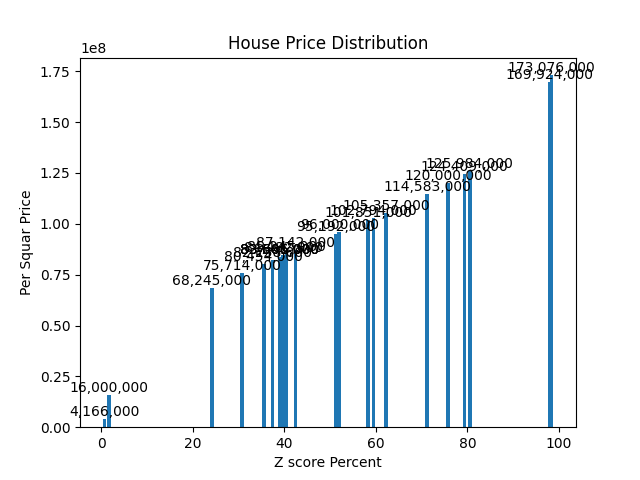
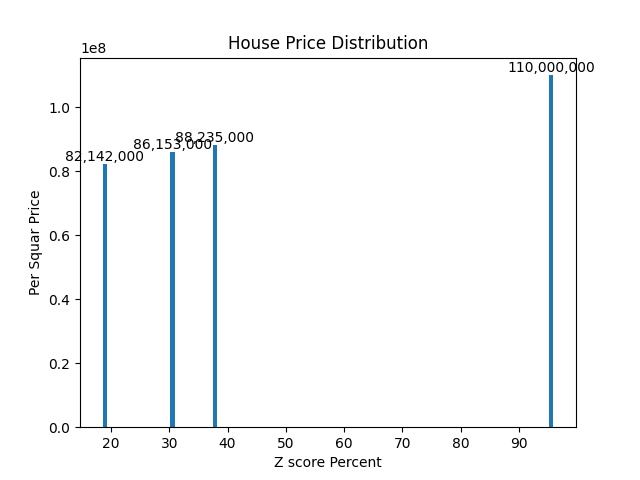
Add logger && and add logger to redis and sheduler.

diff --git a/cmd/redisClient/redisclient.go b/cmd/redisClient/redisclient.go
@@ -5,9 +5,15 @@ import (
 	"fmt"
 	"log"
 	"strconv"
+	logger "tf-idf/cmd/logger"
 	"time"
 
 	"github.com/redis/go-redis/v9"
+)
+
+const (
+	logFilePath = "../../logs/redis/"
+	logPrefix   = ".log"
 )
 
 var ctx = context.Background()
@@ -35,22 +41,25 @@ func RedisChecker() bool {
 }
 
 func RedisSetOPS(key string, value int) {
-	err := client.Set(ctx, key, value, 0)
+	status := client.Set(ctx, key, value, 0)
 
-	if err != nil {
-		log.Printf("Cannot set key %s and value %s with error: \n", key, value, err)
+	if status != nil {
+		log.Printf("Cannot set key %s and value %s with status: \n", key, value, status)
 	} else {
 		return
 	}
+	logger.Logger(logFilePath, logPrefix, fmt.Sprintf("%s", status), "debug")
 }
 
 func RedisGetOPS(key string) int {
 	startTime := time.Now()
-	value, err := client.Get(ctx, key).Result()
-	if err != nil {
-		log.Printf("Canntot Find Value Of Key: %s", key, err)
+	value, status := client.Get(ctx, key).Result()
+	if status != nil {
+		log.Printf("Canntot Find Value Of Key: %s", key, status)
+		logger.Logger(logFilePath, logPrefix, fmt.Sprintf("%s", status), "error")
 	}
 	intValue, _ := strconv.Atoi(value)
 	fmt.Printf("Latency to make get key: '%s' in redis client function: ", key, time.Since(startTime))
+	logger.Logger(logFilePath, logPrefix, fmt.Sprintf("Latency to make get key: '%s' in redis client function: ", key, time.Since(startTime)), "debug")
 	return intValue
 }

diff --git a/cmd/scheduler/scheduler.go b/cmd/scheduler/scheduler.go
@@ -2,11 +2,18 @@ package main
 
 import (
 	"log"
+
 	"os/exec"
 	"sync"
+	logger "tf-idf/cmd/logger"
 	mysqlconnector "tf-idf/cmd/mysql"
 	"tf-idf/cmd/telegram"
 	"time"
+)
+
+const (
+	logFilePath = "../../logs/scheduler/"
+	logPrefix   = ".log"
 )
 
 func main() {
@@ -14,7 +21,7 @@ func main() {
 	wg := &sync.WaitGroup{}
 	wg.Add(1)
 	go cronjob(15, APIPriceUpdateTask, wg, time.Minute)
-	go cronjob(23, HousePriceAnalyze, wg, time.Hour)
+	// go cronjob(23, HousePriceAnalyze, wg, time.Hour)
 	wg.Wait()
 }
 
@@ -39,4 +46,5 @@ func HousePriceAnalyze(wg *sync.WaitGroup) {
 		log.Println("Cannot make house price with error: ", err)
 	}
 	log.Printf("output is %s\n", output)
+	logger.Logger(logFilePath, logPrefix, string(output), "debug")
 }

diff --git a/cmd/logger/logger.go b/cmd/logger/logger.go
@@ -1,0 +1,24 @@
+package logger
+
+import (
+	"fmt"
+	"log"
+	"os"
+)
+
+/*
+In function design plz add below in inputs function:
+- log level
+- log module name
+- log content.
+*/
+
+func Logger(logFilePath string, logPrefix string, logContents string, logLevel string) {
+	file, err := os.OpenFile(fmt.Sprintf("%s%s%s", logFilePath, logLevel, logPrefix), os.O_RDWR|os.O_CREATE|os.O_APPEND, 0666)
+	if err != nil {
+		defer file.Close()
+		log.Println("Cannot open log file with error: ", err)
+	}
+	log.SetOutput(file)
+	log.Println(logContents)
+}

diff --git a/cmd/jobs/price_analyzes/price_analyzes.go b/cmd/jobs/price_analyzes/price_analyzes.go
@@ -37,7 +37,7 @@ type SqlConfig struct {
 const (
 	DBName      = "words"
 	TableName   = "house_price"
-	TargetTable = "house_price_majidieh_1741417562"
+	TargetTable = "house_price"
 	botToken    = "7866790505:AAGWjmSDBQyKhVsxObscwCJ8U2AX7Mn1EB8"
 	chatId      = "114956415"
 )
